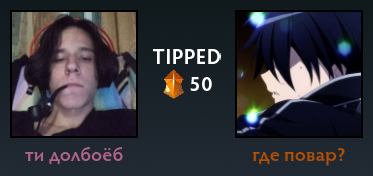
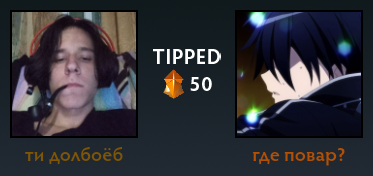
test

Changed region(s): [[0.059, 0.8239, 0.3539, 0.9375]]

diff --git a/src/commands/client/dev/test.js b/src/commands/client/dev/test.js
@@ -2,11 +2,29 @@ module.exports = {
     name: "test", 
     aliases: ["t"],
     code: `
-        $getObjectProperty[emojis;$message[1]]
+        $downloadCanvas[tipped;./src/data/tipped.png]
 
-        $createObject[emojis;$getMVar[emojis]]
+            $fillText[tipped;$get[username2];$get[color2];20px hypatiasanspro;299;161;128;center]
+            $drawImage[tipped;$nonEscape[$userAvatar[$get[user];;false;png]];237;12;124;124]
+
+            $fillText[tipped;$get[username1];$get[color1];20px hypatiasanspro;74;161;128;center]
+            $drawImage[tipped;$nonEscape[$userAvatar[$authorID;;false;png]];12;12;124;124]
+
+            $drawImage[tipped;;0;0;373;176]
+
+        $createCanvas[tipped;373;176]
+
+        $setUserMVar[getTips;$sum[$getUserMVar[getTips;$get[user]];1];$get[user]]
+        $setUserMVar[playerTipped;$sum[$getUserMVar[playerTipped;$authorID];1];$authorID]
 
         $setUserMVar[commandsUsed;$sum[$getUserMVar[commandsUsed;$authorID];1];$authorID]
+
+        $let[username2;$if[$userNickname[$guildID;$get[user];false]==;$username[$get[user]];$userNickname[$guildID;$get[user];false]]]
+        $let[username1;$if[$userNickname[$guildID;$authorID;false]==;$username[$authorID];$userNickname[$guildID;$authorID;false]]]
+        $let[user;$authorID]
+
+        $let[color2;$randomText[#2757b3;#44a57b;#880788;#9e9f0e;#b45004]]
+        $let[color1;$randomText[#b3638a;#788838;#458f9f;#02781f;#805504]]
 
         $onlyIF[529790206195269632==$authorID;
             Упс... Что-то пошло не так...\n-# Вы не являетесь разработчиком бота.

diff --git a/src/commands/client/fun/tip.js b/src/commands/client/fun/tip.js
@@ -15,7 +15,7 @@ module.exports = [{
             $drawImage[tipped;$nonEscape[$userAvatar[$get[user];;false;png]];237;12;124;124]
 
             $fillText[tipped;$get[username1];$get[color1];20px hypatiasanspro;74;161;128;center]
-            $drawImage[tipped;$nonEscape[$userAvatar[$authorID;;false;png]];12;12;124;124]
+            $drawImage[tipped;$nonEscape[$userAvatar[$interactionData[author.id];;false;png]];12;12;124;124]
 
             $drawImage[tipped;$nonEscape[$getMVar[tippedImage]];0;0;373;176]
 
@@ -27,7 +27,7 @@ module.exports = [{
         $setUserMVar[commandsUsed;$sum[$getUserMVar[commandsUsed;$interactionData[author.id]];1];$interactionData[author.id]]
 
         $let[username2;$if[$userNickname[$guildID;$get[user];false]==;$username[$get[user]];$userNickname[$guildID;$get[user];false]]]
-        $let[username1;$if[$userNickname[$guildID;$authorID;false]==;$username[$authorID];$userNickname[$guildID;$authorID;false]]]
+        $let[username1;$if[$userNickname[$guildID;$interactionData[author.id];false]==;$username[$interactionData[author.id]];$userNickname[$guildID;$interactionData[author.id];false]]]
         $let[user;$slashOption[user]]
 
         $let[color2;$randomText[#2757b3;#44a57b;#880788;#9e9f0e;#b45004]]

diff --git a/src/config/nodes.js b/src/config/nodes.js
@@ -1,6 +1,6 @@
 module.exports = [
   {
-    name: "slxxxx",
+    name: config.host,
     host: "e1.aurorix.net",
     port: 20172,
     auth: "2025-01-03",
@@ -9,32 +9,13 @@ module.exports = [
 ];
 
 /*
+
   {
-    name: "Eternal",
+    name: config.host,
     host: "e1.aurorix.net",
     port: 20172,
-    auth: "20250103slaynWwXlove",
-    secure: false
-  },
-  {
-    name: "localhost",
-    host: "localhost",
-    port: 8080,
-    auth: "20250103slaynWwXlove",
+    auth: "2025-01-03",
     secure: false
   }
-  {
-    name: "ChalresNaig",
-    host: "lavahatry4.techbyte.host",
-    port: 3000,
-    auth: "NAIGLAVA-dash.techbyte.host",
-    secure: false
-  },
-  {
-    name: "slxxxx",
-    host: "e1.aurorix.net",
-    port: 20172,
-    auth: "20250103slaynWwXlove",
-    secure: false
-  }
+
 */

diff --git a/src/commands/player/track/nodeError.js b/src/commands/player/track/nodeError.js
@@ -1,0 +1,16 @@
+module.exports = {
+    name: "nodeError",
+    type: 'nodeError',
+    channel: '$channelId',
+    $if: 'old',
+    code: `
+        $if[$hasPlayer==true&&$voiceId[$clientId]!=||$hasPlayer==true&&$voiceMemberCount[$voiceId[$clientId]]!=1||$hasPlayer==true&&$channelExists[$channelId]==true]
+            $deleteNowPlaying
+            $deleteMessage[$get[msgID];$channelID]
+        $else
+            $leaveVC
+        $endif
+
+        $let[msgID;$readFile[./src/data/message.txt]]
+    `   
+};

diff --git a/src/shard.js b/src/shard.js
@@ -3,8 +3,8 @@ const { token, debug } = require('./config');
 const { blue, cyan, green } = require('chalk');
 
 const manager = new ClusterManager(`${__dirname}/slxxxx.js`, {
-    totalShards: 1,
-    shardsPerClusters: 1,
+    totalShards: 3,
+    shardsPerClusters: 3,
     totalClusters: 1,
     mode: 'process',
     token
